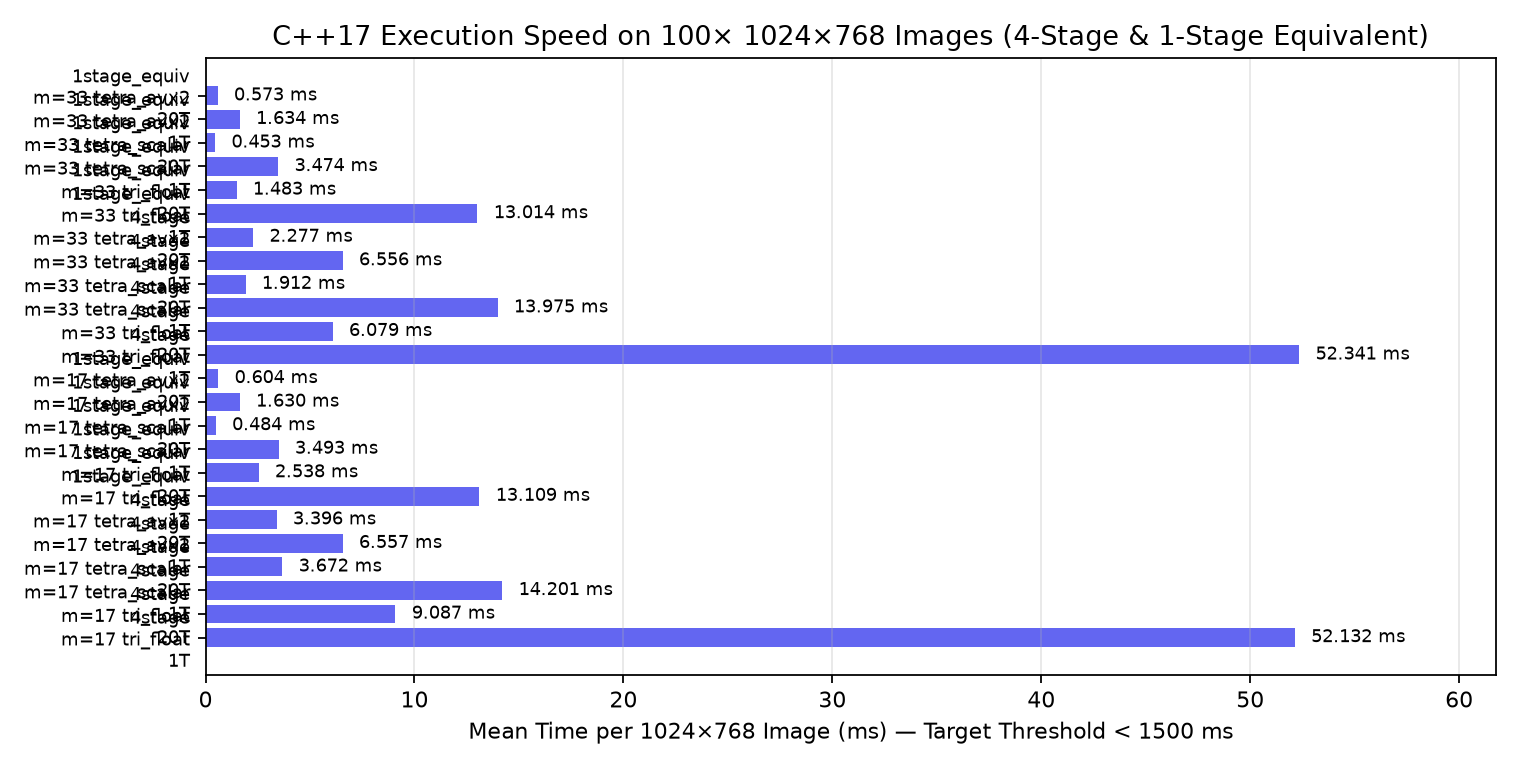
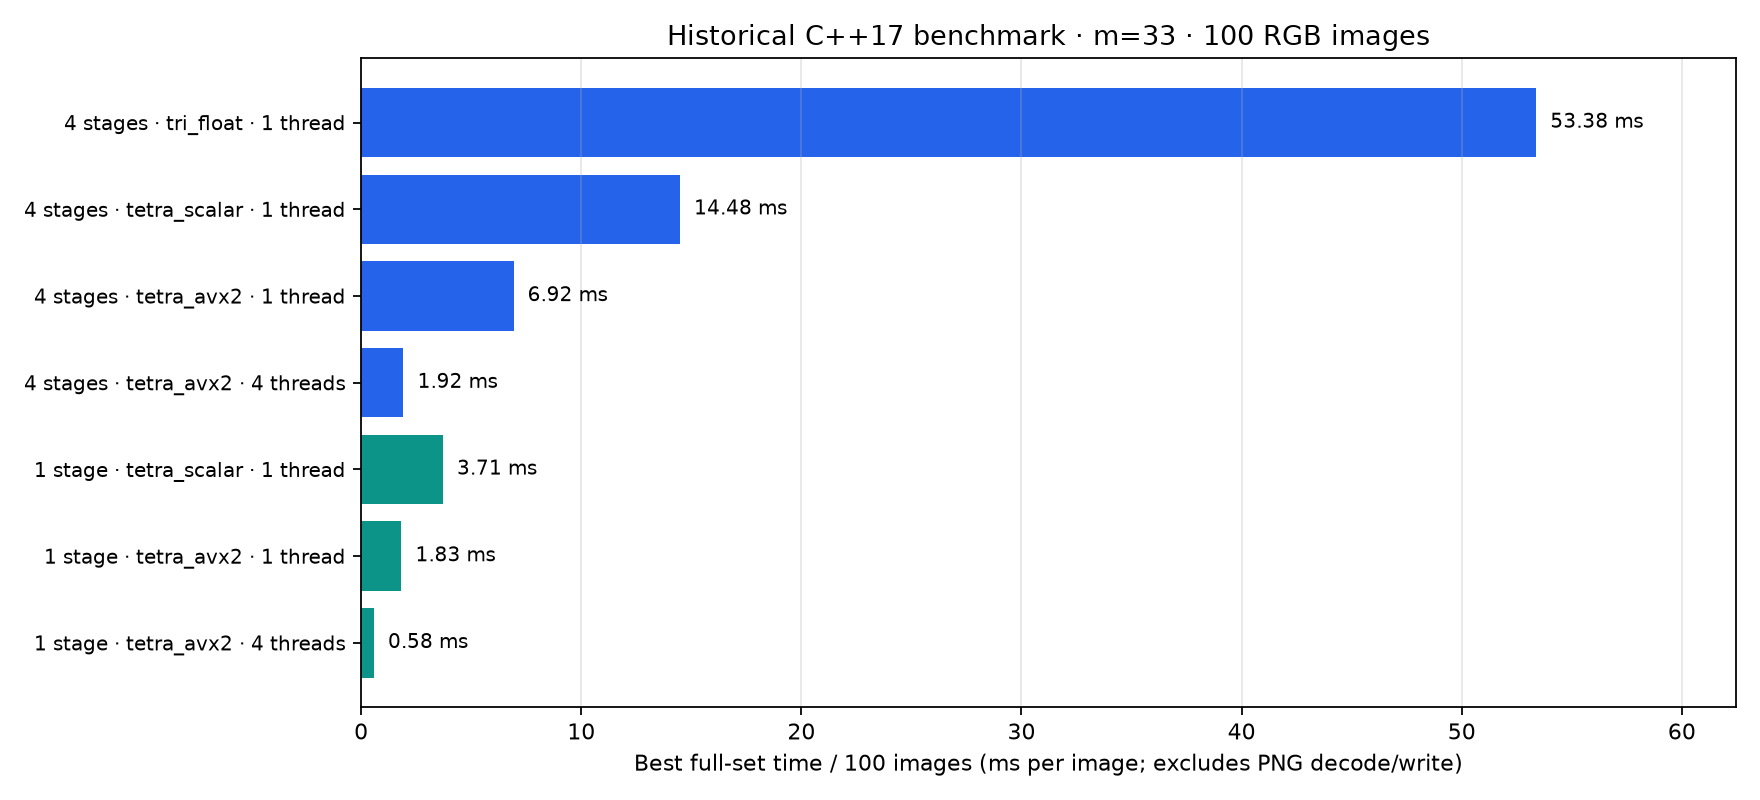
docs: publish readable historical throughput chart and audit results

Changed region(s): [[0.0, 0.0312, 0.9895, 0.9688], [0.1237, 0.875, 0.1546, 0.9062]]

diff --git a/AUDIT.md b/AUDIT.md
@@ -10,6 +10,7 @@
 4. **Docker 构建上下文过大。** 工作区的 `.pixi/` 约 5.7 GB、`data/` 约 1.8 GB；原 `COPY . .` 会带入它们。新增 `.dockerignore` 排除缓存、生成数据、构建产物和独立日志。Docker 镜像本身尚未实际构建验证。
 5. **基准口径易误读。** `apply_ms_mean` 是每张图片跨重复轮次取最短时间后再平均；它小于整组持续处理耗时。CLI 保留历史字段，同时新增 `set_ms_per_image_best_rep` 与 `set_mpix_per_s_best_rep`，分别从完整 100 图最佳轮次计算。
 6. **文档包含过期或错误的当前性表述。** 修正了已移除的 CMake 选项与 `HEAD` 指向、错误的 AMD CPU 归因、错误的 benchmark 命令、不可移植的本机绝对路径链接，并将比赛选择结论标为有条件。历史表格保留作版本记录。
+7. **历史吞吐图无法阅读。** 原图堆叠了过多行且文字互相覆盖；现在只显示有代表性的 `m=33` 配置，并用完整 100 图最佳轮次耗时绘制，见 `docs/plots/cpp_throughput.png`。
 
 ## 当前分支同条件复测
 
@@ -28,6 +29,8 @@ Arch Linux WSL；`i7-13700H`；Pixi 锁定的 GCC 16.2、Zig 0.17、Rust 1.99；
 | Rust | 20 | 2.1689 | 246.026 | 2.4603 |
 
 这些值只覆盖本机的当前通用目标构建及已有模拟 LUT。Zig 在本组全部线程配置最快，因此保留默认选择。历史 `v1.3` 多语言记录的 `run.json` 创建耗时仅 0.013 秒，未保存当时的基准命令和原始输出；其 Zig `0.2393 ms/张` 等数字不能当作当前复测值。旧日志环境记录为 i7-13700H，原 `ROUTES.md` 中的 AMD Ryzen 9 5900X 说明不可信。
+
+修复后 `pixi run test` 通过：C++ 内核测试 1 项、Python 测试 5 项。独立日志为 `audit-postfix-test c5abdb6a`（日志提交 `a3f06e4`）。新增的 benchmark 输出字段及默认 Zig 路径也通过单图 smoke test，日志为 `audit-bench-format 4f6227c7`（日志提交 `ad85acb`）。首次修复后的测试因测试用例没有重新保存已修改的输入 PNG 而失败；该次失败同样保存在独立日志，修正测试后通过。
 
 ## 仍需处理的风险与下一步
 

diff --git a/EVALUATION.md b/EVALUATION.md
@@ -4,7 +4,7 @@
 
 > 原始机器数据：[experiments/route_sweep.json](experiments/route_sweep.json)
 > 独立日志仓库提交：`logs/` Git commit `172961e` ([logs/runs/20261012T143211Z-routes-sweep-f36df336](logs/runs/20261012T143211Z-routes-sweep-f36df336))
-> 可视化图表：[docs/plots/accuracy_routes_isp0.png](docs/plots/accuracy_routes_isp0.png)、[docs/plots/cpp_throughput.png](docs/plots/cpp_throughput.png)
+> 可视化图表：[docs/plots/accuracy_routes_isp0.png](docs/plots/accuracy_routes_isp0.png)、[docs/plots/cpp_throughput.png](docs/plots/cpp_throughput.png)（后者已改用完整 100 图最佳轮次耗时）
 
 ---
 
